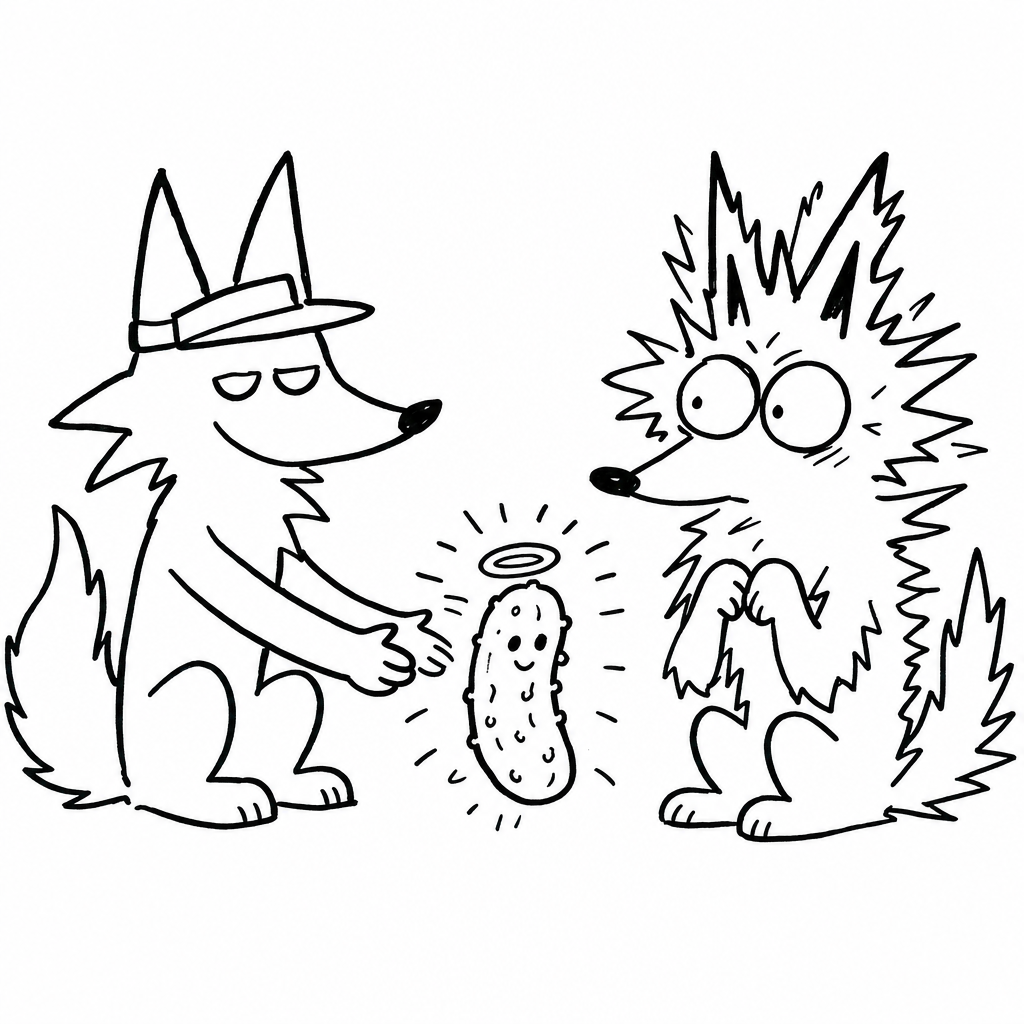
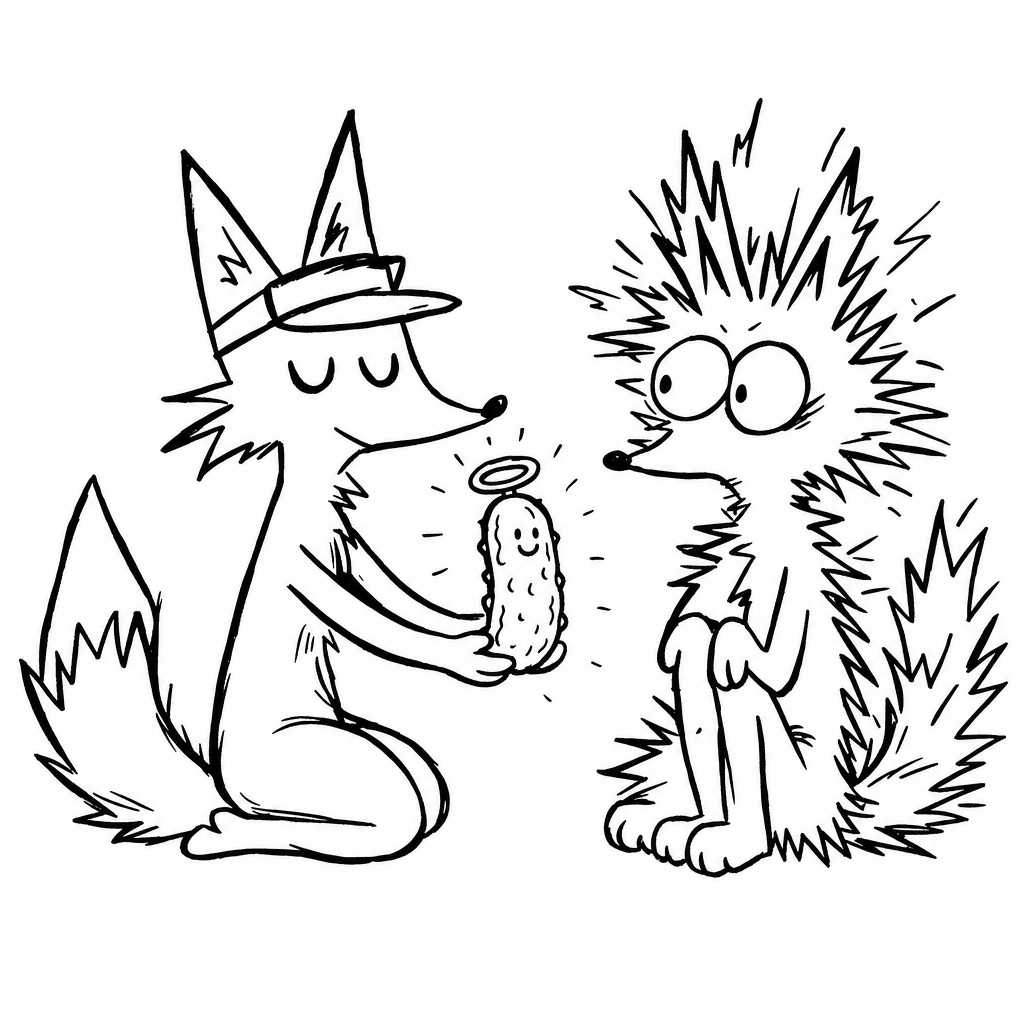
Pickleball guide: realistic to-scale SVG court diagram

Changed region(s): [[0.0, 0.0938, 0.5938, 0.8438], [0.5625, 0.0938, 1.0, 0.875], [0.1875, 0.5, 0.2188, 0.5312]]

diff --git a/pickleball/chapter-3.html b/pickleball/chapter-3.html
@@ -17,32 +17,51 @@
 Because of the Two-Bounce Rule, every point opens with the four players in a slightly lopsided little tableau:
 
 <figure class="court-fig">
-<svg viewBox="0 0 280 500" role="img" aria-label="Pickleball doubles starting formation">
-<rect x="30" y="30" width="220" height="440" fill="none" stroke="#3a342a" stroke-width="2.5"/>
-<rect x="30" y="180" width="220" height="70" fill="#cdd9a6" opacity="0.5"/>
-<rect x="30" y="250" width="220" height="70" fill="#cdd9a6" opacity="0.5"/>
-<line x1="30" y1="180" x2="250" y2="180" stroke="#3a342a" stroke-width="2"/>
-<line x1="30" y1="320" x2="250" y2="320" stroke="#3a342a" stroke-width="2"/>
-<line x1="140" y1="30" x2="140" y2="180" stroke="#3a342a" stroke-width="2"/>
-<line x1="140" y1="320" x2="140" y2="470" stroke="#3a342a" stroke-width="2"/>
-<line x1="16" y1="250" x2="264" y2="250" stroke="#3a342a" stroke-width="3.5" stroke-dasharray="3 3"/>
-<circle cx="16" cy="250" r="3" fill="#3a342a"/><circle cx="264" cy="250" r="3" fill="#3a342a"/>
-<text x="258" y="244" text-anchor="end" class="cl-net">NET</text>
-<text x="140" y="219" text-anchor="middle" class="cl-k">the kitchen</text>
-<text x="140" y="289" text-anchor="middle" class="cl-k">the kitchen</text>
-<path d="M196,440 C150,360 120,210 98,124" fill="none" stroke="#9c4a1f" stroke-width="1.6" stroke-dasharray="4 4" opacity="0.75"/>
-<polygon points="98,120 91,132 104,129" fill="#9c4a1f" opacity="0.85"/>
-<circle cx="196" cy="152" r="12" fill="#5a7d3c" stroke="#fff" stroke-width="2"/>
-<circle cx="84" cy="74" r="12" fill="#5a7d3c" stroke="#fff" stroke-width="2"/>
-<circle cx="196" cy="442" r="12" fill="#9c4a1f" stroke="#fff" stroke-width="2"/>
-<circle cx="84" cy="442" r="12" fill="#9c4a1f" stroke="#fff" stroke-width="2"/>
-<text x="196" y="134" text-anchor="middle" class="cl-p">returner's partner</text>
-<text x="196" y="122" text-anchor="middle" class="cl-s">up at the line — best seat</text>
-<text x="84" y="56" text-anchor="middle" class="cl-p">returner</text>
-<text x="84" y="465" text-anchor="middle" class="cl-p">server's partner</text>
-<text x="196" y="465" text-anchor="middle" class="cl-p">server</text>
+<svg viewBox="0 0 340 560" role="img" aria-label="A regulation pickleball court, to scale, with the doubles starting formation">
+<defs><pattern id="netmesh" width="7" height="8" patternUnits="userSpaceOnUse"><path d="M0 0V8M3.5 0V8" stroke="#e8eae4" stroke-width="0.6"/></pattern></defs>
+<rect x="50" y="36" width="244" height="484" rx="6" fill="#4f6b4a"/>
+<rect x="72" y="58" width="200" height="440" fill="#43748f"/>
+<rect x="72" y="208" width="200" height="70" fill="#b06848"/>
+<rect x="72" y="278" width="200" height="70" fill="#b06848"/>
+<g fill="none" stroke="#f4efe2" stroke-width="2">
+<rect x="72" y="58" width="200" height="440"/>
+<line x1="72" y1="208" x2="272" y2="208"/>
+<line x1="72" y1="348" x2="272" y2="348"/>
+<line x1="172" y1="58" x2="172" y2="208"/>
+<line x1="172" y1="348" x2="172" y2="498"/>
+</g>
+<rect x="66" y="274" width="212" height="8" fill="url(#netmesh)"/>
+<line x1="66" y1="274" x2="278" y2="274" stroke="#f7f4ea" stroke-width="1.4"/>
+<line x1="66" y1="282" x2="278" y2="282" stroke="#cfd2c9" stroke-width="1"/>
+<circle cx="66" cy="278" r="4" fill="#23262a"/><circle cx="278" cy="278" r="4" fill="#23262a"/>
+<g stroke="#6b5f47" stroke-width="1">
+<line x1="40" y1="58" x2="40" y2="498"/><line x1="36" y1="58" x2="44" y2="58"/><line x1="36" y1="498" x2="44" y2="498"/>
+<line x1="72" y1="530" x2="272" y2="530"/><line x1="72" y1="526" x2="72" y2="534"/><line x1="272" y1="526" x2="272" y2="534"/>
+<line x1="308" y1="208" x2="308" y2="278"/><line x1="304" y1="208" x2="312" y2="208"/><line x1="304" y1="278" x2="312" y2="278"/>
+</g>
+<text x="30" y="278" text-anchor="middle" transform="rotate(-90 30 278)" class="cl-dim">44 ft</text>
+<text x="172" y="545" text-anchor="middle" class="cl-dim">20 ft</text>
+<text x="324" y="246" text-anchor="middle" transform="rotate(-90 324 246)" class="cl-dim">7 ft</text>
+<text x="172" y="248" text-anchor="middle" class="cl-kw">kitchen</text>
+<text x="172" y="318" text-anchor="middle" class="cl-kw">kitchen</text>
+<path d="M222,470 C176,392 138,250 124,128" fill="none" stroke="#f6d24c" stroke-width="1.8" stroke-dasharray="4 4" opacity="0.95"/>
+<polygon points="124,122 117,135 131,131" fill="#f6d24c"/>
+<circle cx="222" cy="478" r="9" fill="#f6d24c" stroke="#23262a" stroke-width="2"/>
+<circle cx="122" cy="478" r="9" fill="#f6d24c" stroke="#23262a" stroke-width="2"/>
+<circle cx="122" cy="78" r="9" fill="#f4efe2" stroke="#23262a" stroke-width="2"/>
+<circle cx="222" cy="196" r="9" fill="#f4efe2" stroke="#23262a" stroke-width="2"/>
+<g>
+<rect x="165" y="170" width="114" height="15" rx="3" fill="#f4efe2" stroke="#caa37e"/>
+<text x="222" y="181" text-anchor="middle" class="cl-pl">returner's partner — up!</text>
+<rect x="92" y="50" width="60" height="15" rx="3" fill="#f4efe2" stroke="#caa37e"/>
+<text x="122" y="61" text-anchor="middle" class="cl-pl">returner</text>
+<rect x="195" y="490" width="54" height="15" rx="3" fill="#f4efe2" stroke="#caa37e"/>
+<text x="222" y="501" text-anchor="middle" class="cl-pl">server</text>
+<rect x="79" y="490" width="86" height="15" rx="3" fill="#f4efe2" stroke="#caa37e"/>
+<text x="122" y="501" text-anchor="middle" class="cl-pl">server's partner</text>
+</g>
 </svg>
-<figcaption>Three players stuck at the back; one lonely soul already up at the kitchen line. (Sienna = serving team, green = receiving.)</figcaption>
+<figcaption>A regulation court, to scale — 44 × 20 ft, with a 7-ft kitchen on each side of a 34–36 in net, and 15 × 10 ft service boxes. Amber = serving team, cream = receiving; the dotted line is the cross-court serve.</figcaption>
 </figure>
 
 Three of them loafing at the back. And **one lonely soul already up at the net** — the returner's partner. Why does *he* get to be up there?

diff --git a/pickleball/style.css b/pickleball/style.css
@@ -110,14 +110,13 @@ blockquote.drill strong{color:var(--pickle-d)}
 .content pre code{white-space:pre}
 
 /* svg court diagram */
-.court-fig{clear:both; margin:30px auto; max-width:330px; text-align:center}
+.court-fig{clear:both; margin:30px auto; max-width:362px; text-align:center}
 .court-fig svg{width:100%; height:auto; background:#efe6cc; border:1px solid #d8c9a3; border-radius:10px;
   padding:10px; box-shadow:0 9px 22px rgba(40,30,10,.22)}
 .court-fig text{font-family:"Iowan Old Style",Palatino,Georgia,serif}
-.court-fig .cl-net{font-size:11px; letter-spacing:.14em; fill:#3a342a}
-.court-fig .cl-k{font-style:italic; font-size:11px; fill:#7a6f54}
-.court-fig .cl-p{font-size:12px; font-weight:700; fill:#2b261e}
-.court-fig .cl-s{font-size:9.5px; font-style:italic; fill:#9c4a1f}
+.court-fig .cl-dim{font-size:11px; letter-spacing:.03em; fill:#6b5f47}
+.court-fig .cl-kw{font-size:12px; font-style:italic; letter-spacing:.05em; fill:#f6efe2}
+.court-fig .cl-pl{font-size:9px; font-weight:700; fill:#2b261e}
 .court-fig figcaption{font-family:"Bradley Hand","Marker Felt",cursive; font-size:15px; color:var(--ink-soft); margin-top:10px}
 
 .content hr{border:none; text-align:center; margin:2.2em 0 1.2em; clear:both}